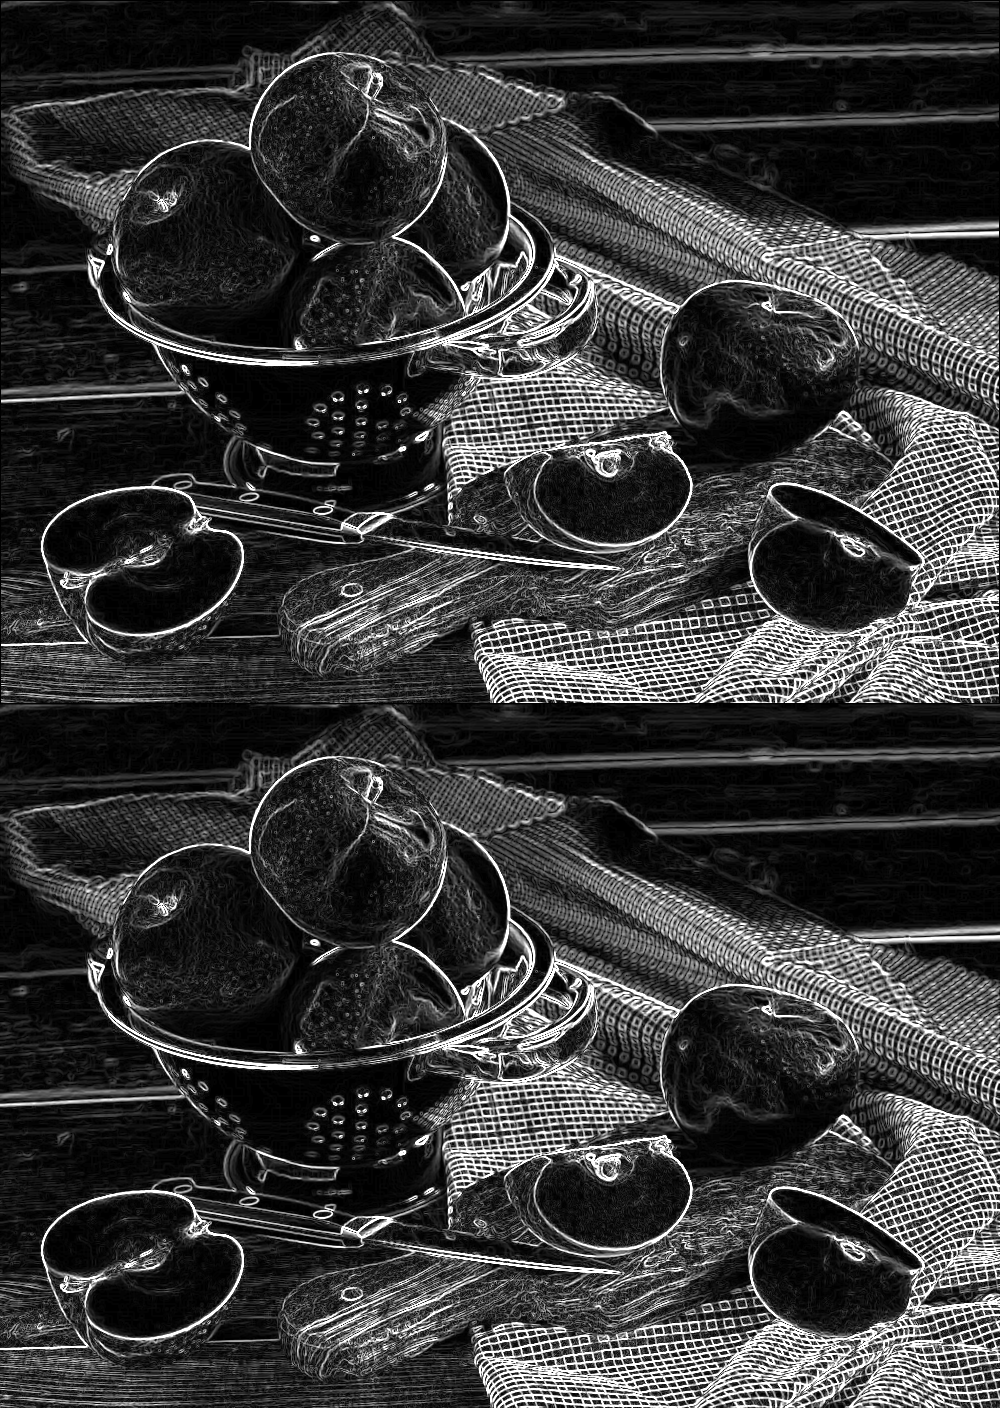
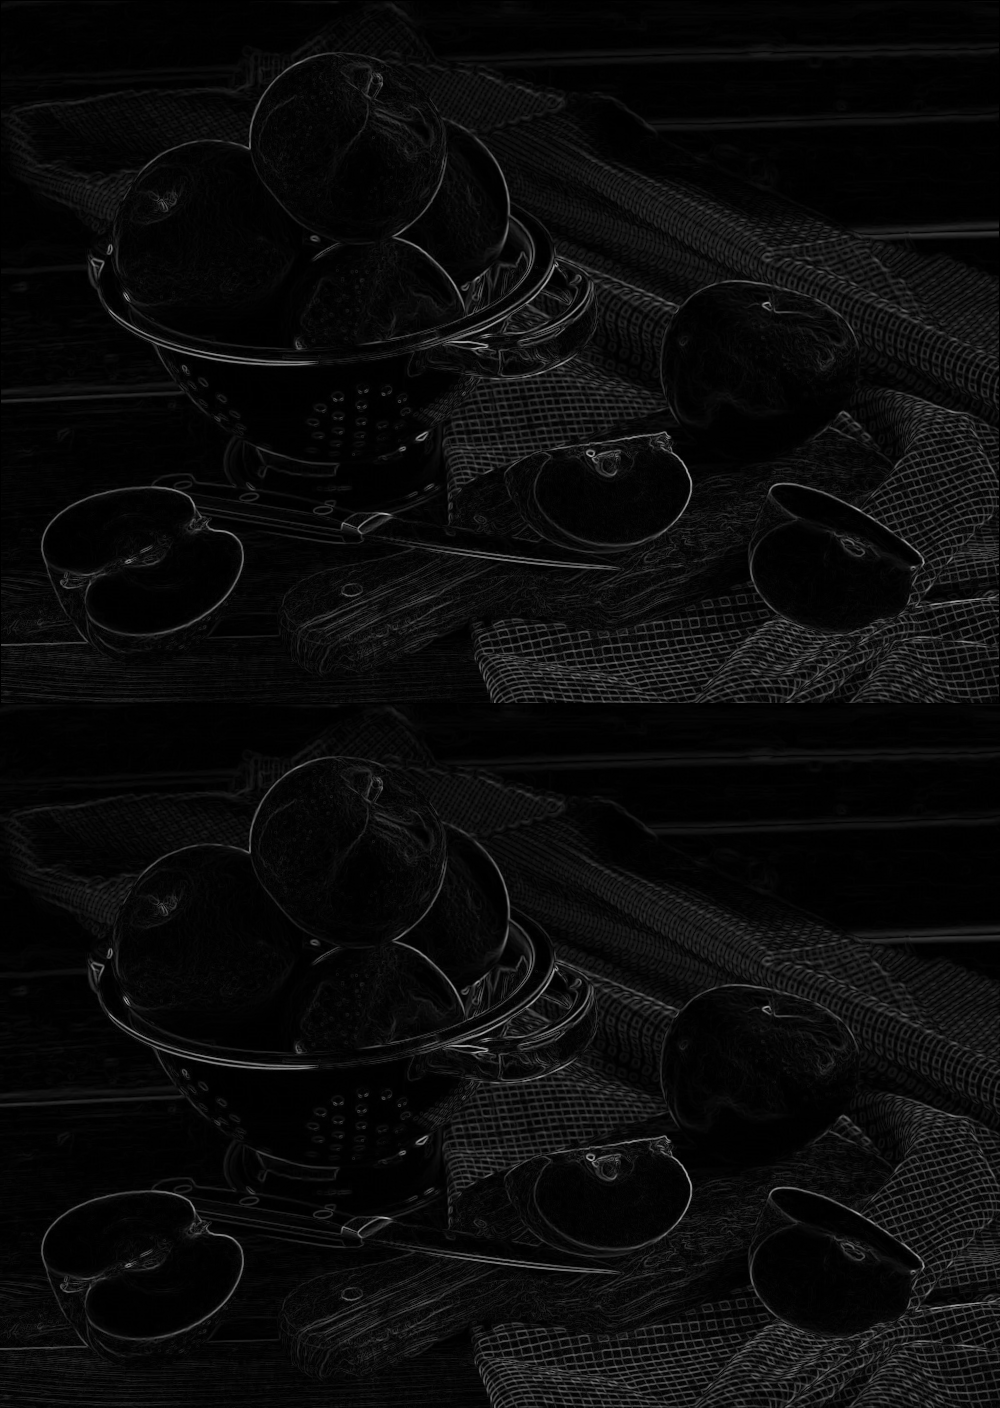
lab3: review fixes

diff --git a/works/apvyugina/lab3/src/cpu_sobel.cpp b/works/apvyugina/lab3/src/cpu_sobel.cpp
@@ -47,7 +47,7 @@ vector<float> applySobelCPU(const vector<float>& image, int width, int height)
             }
             
             float gradientMagnitude = sqrt(sumX*sumX + sumY*sumY);
-            result[y*width+x] = fminf(gradientMagnitude, 1.0f);
+            result[y*width+x] = gradientMagnitude / (4.0f * sqrtf(2.0f));
         }
     }
 

diff --git a/works/apvyugina/lab3/README.md b/works/apvyugina/lab3/README.md
@@ -27,26 +27,26 @@
 ### Замеры времени
 ```
 $ ./build/sobel assets/cat.png
-Время работы на CPU: 0.16513 секунд.
-Время работы на GPU без переноса данных: 0.000181 секунд.
-Время работы на GPU с учетом обращений к памяти: 3.45995 секунд.
+Время работы на CPU: 0.194347 секунд.
+Время работы на GPU без переноса данных: 0.00043 секунд.
+Время работы на GPU с учетом обращений к памяти: 0.236897 секунд.
 ```
 
 ```
 $ ./build/sobel assets/apple.png
-Время работы на CPU: 0.137041 секунд.
-Время работы на GPU без переноса данных: 0.000177 секунд.
-Время работы на GPU с учетом обращений к памяти: 3.41879 секунд.
+Время работы на CPU: 0.117532 секунд.
+Время работы на GPU без переноса данных: 0.00043 секунд.
+Время работы на GPU с учетом обращений к памяти: 0.295594 секунд.
 ```
 
 
 ### Анализ производительности
 На примере обработки изображения:
-- **CPU**: ~0.12-0.16 секунд (зависит от размера изображения)
-- **GPU (только вычисления)**: ~0.0001 секунд
-- **GPU (с переносом данных)**: ~3 секунд
+- **CPU**: ~0.11-0.19 секунд (зависит от размера изображения)
+- **GPU (только вычисления)**: ~0.0004 секунд
+- **GPU (с переносом данных)**: ~0.25 секунд
 
-Очень много времени занимает перенос данных с CPU на GPU, однако при измерении времени самой операции время работы уменьшается примерно в 1000 раз. 
+Очень много времени занимает перенос данных с CPU на GPU, однако при измерении времени самой операции время работы уменьшается примерно в 600 раз. 
 
 
 ## Выводы
